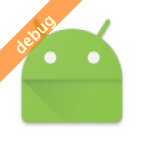
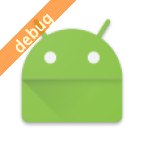
fix label positions

Changed region(s): [[0.0, 0.0, 0.5833, 0.5833]]

diff --git a/plugin/src/main/groovy/com/github/gfx/ribbonizer/filter/ColorRibbonFilter.java b/plugin/src/main/groovy/com/github/gfx/ribbonizer/filter/ColorRibbonFilter.java
@@ -47,15 +47,18 @@ public class ColorRibbonFilter implements Consumer<BufferedImage> {
 
         // draw the ribbon
         g.setColor(ribbonColor);
-        g.fillRect(-width, y, width * 2, (int)(labelBounds.getHeight() * 1.2));
+        g.fillRect(-width, y, width * 2, (int) (labelBounds.getHeight()));
 
         // draw the label
         g.setRenderingHint(RenderingHints.KEY_ANTIALIASING,
                 RenderingHints.VALUE_ANTIALIAS_ON);
         g.setColor(labelColor);
 
-        drawString(g, label, (int) (-labelBounds.getWidth() / 2),
-                (int) (y + labelBounds.getHeight()));
+        FontMetrics fm = g.getFontMetrics();
+
+        drawString(g, label,
+                (int) -labelBounds.getWidth() / 2,
+                y + fm.getAscent());
 
         g.dispose();
     }
@@ -93,10 +96,11 @@ public class ColorRibbonFilter implements Consumer<BufferedImage> {
         g.drawString(str, x, y);
 
         if (debug) {
+            FontMetrics fm = g.getFontMetrics();
             Rectangle2D bounds = g.getFont().getStringBounds(str,
                     new FontRenderContext(g.getTransform(), true, true));
 
-            g.drawRect(x, y - (int)bounds.getHeight(), (int)bounds.getWidth(), (int)bounds.getHeight());
+            g.drawRect(x, y - fm.getAscent(), (int)bounds.getWidth(), fm.getAscent());
         }
     }
 }
